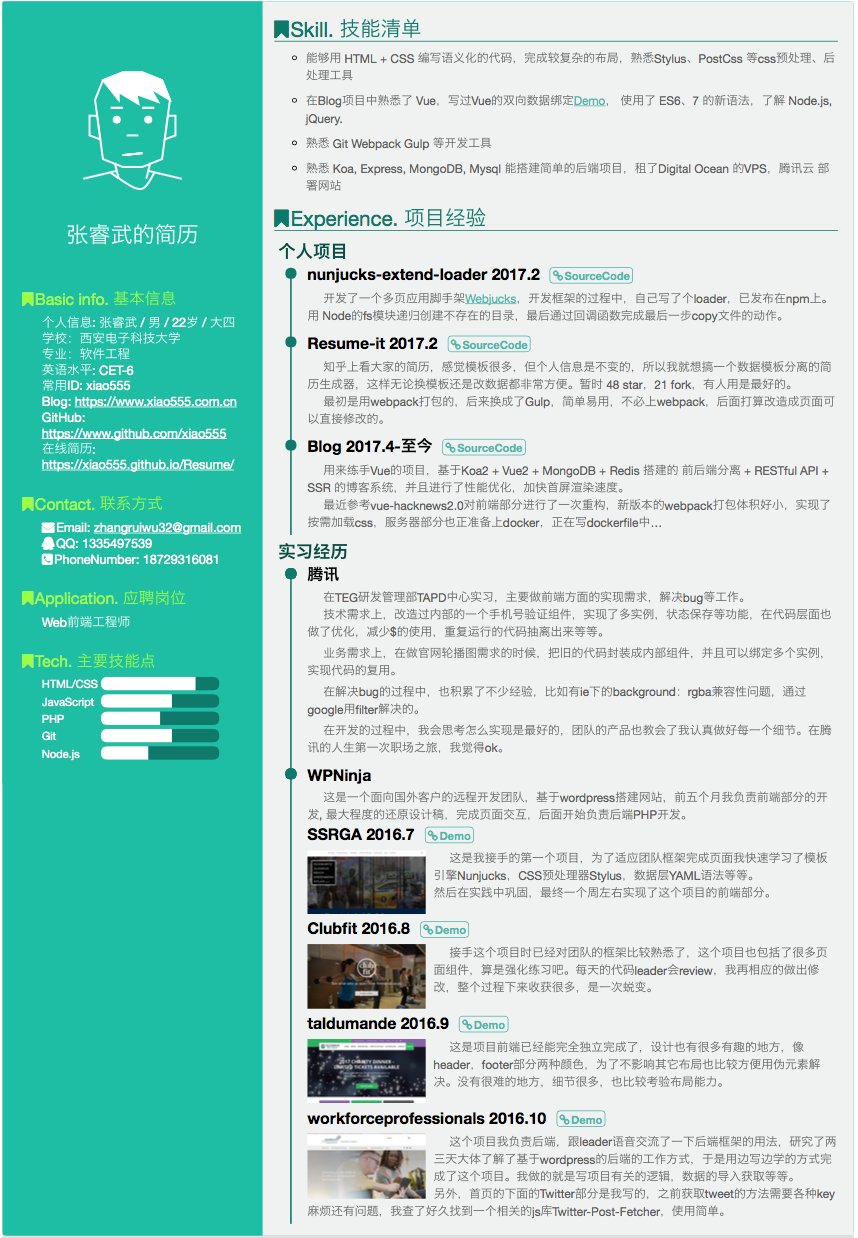
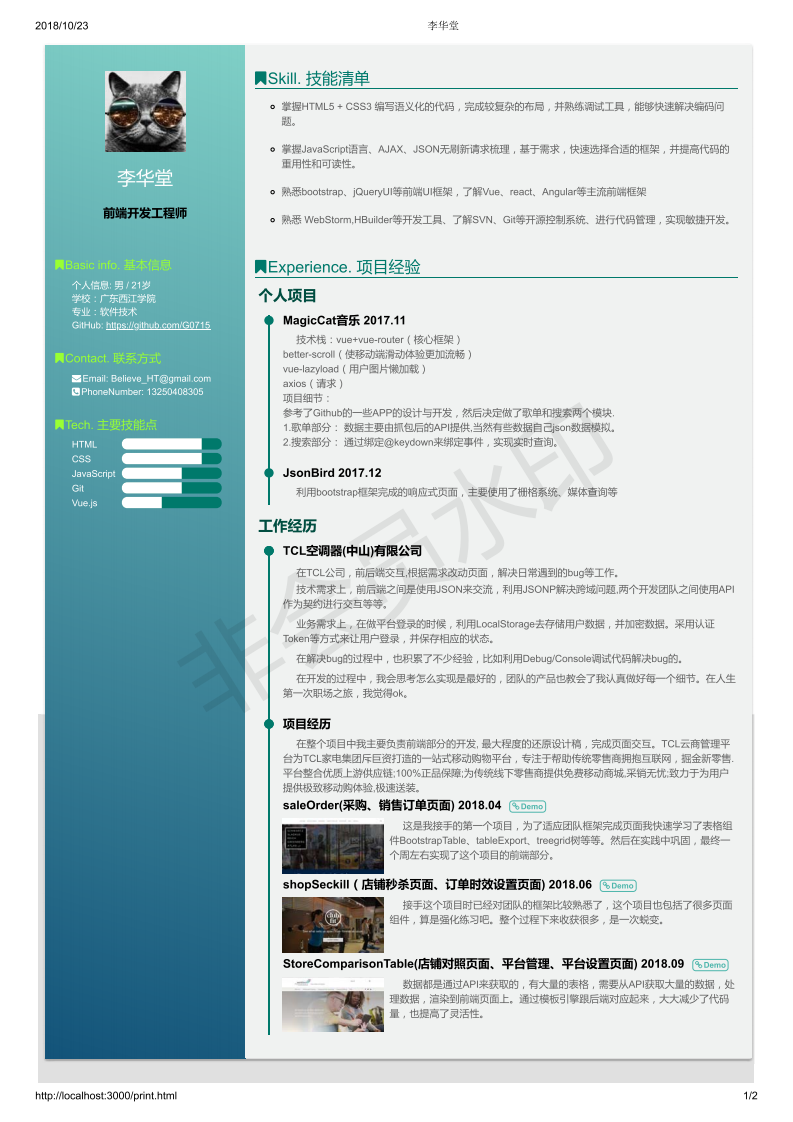
提交文件

diff --git a/template/index.html b/template/index.html
@@ -3,7 +3,7 @@
 <div class="container">
     <div class="sidebar">
         <div class="title">
-            <img src="http://thyrsi.com/t6/393/1540199718x1822611431.jpg" alt="">
+            <img src="http://thyrsi.com/t6/394/1540257634x-1404781090.jpg" alt="">
             <h1>李华堂</h1>
             <h4>前端开发工程师</h4>
         </div>

diff --git a/template/print.html b/template/print.html
@@ -3,7 +3,7 @@
 <div class="container">
     <div class="sidebar">
         <div class="title">
-            <img src="http://thyrsi.com/t6/393/1540199718x1822611431.jpg" alt="">
+            <img src="http://thyrsi.com/t6/394/1540257634x-1404781090.jpg" alt="">
             <h1>李华堂</h1>
             <h4>前端开发工程师</h4>
         </div>

diff --git a/README.md b/README.md
@@ -77,8 +77,8 @@ npm run public
 
 ## 更新日志
 
-2017.6.18
-  调整结构，采用 Gulp 打包，public 用 `simple-git`, 不用shell脚本了
+2018.10.23
+  调整结构，采用 Gulp 打包
 
 ## LICENSE
 
